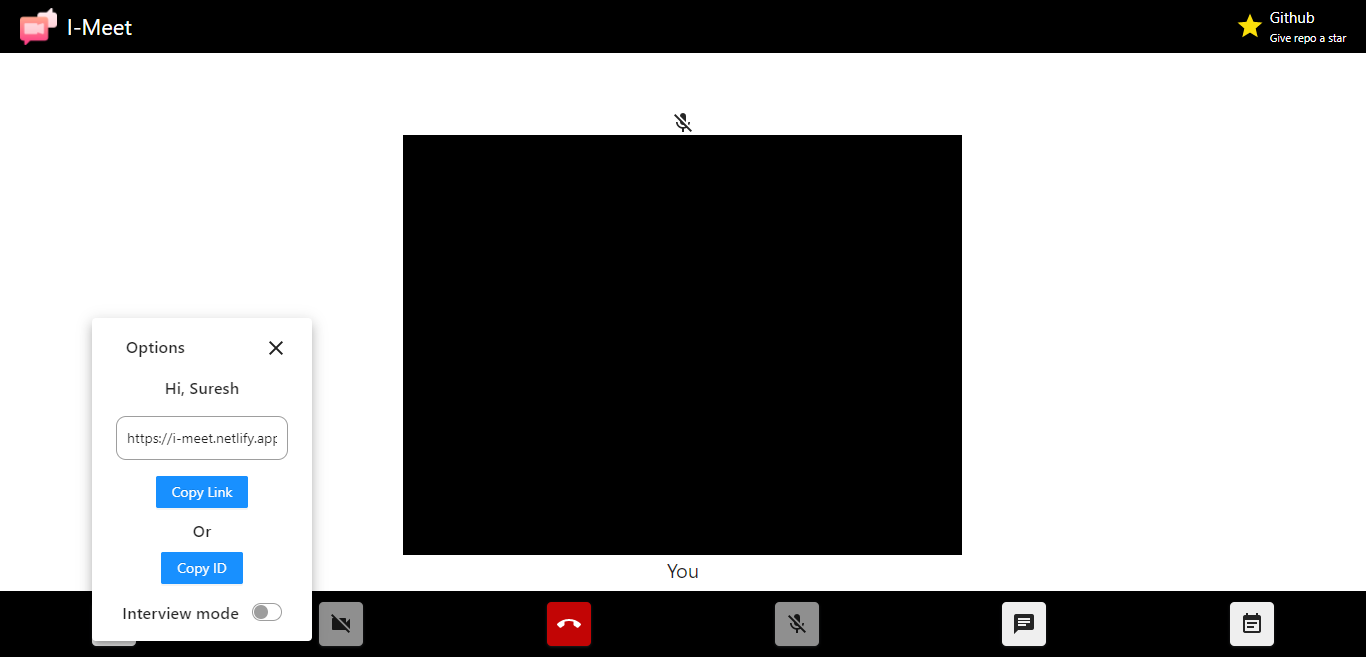
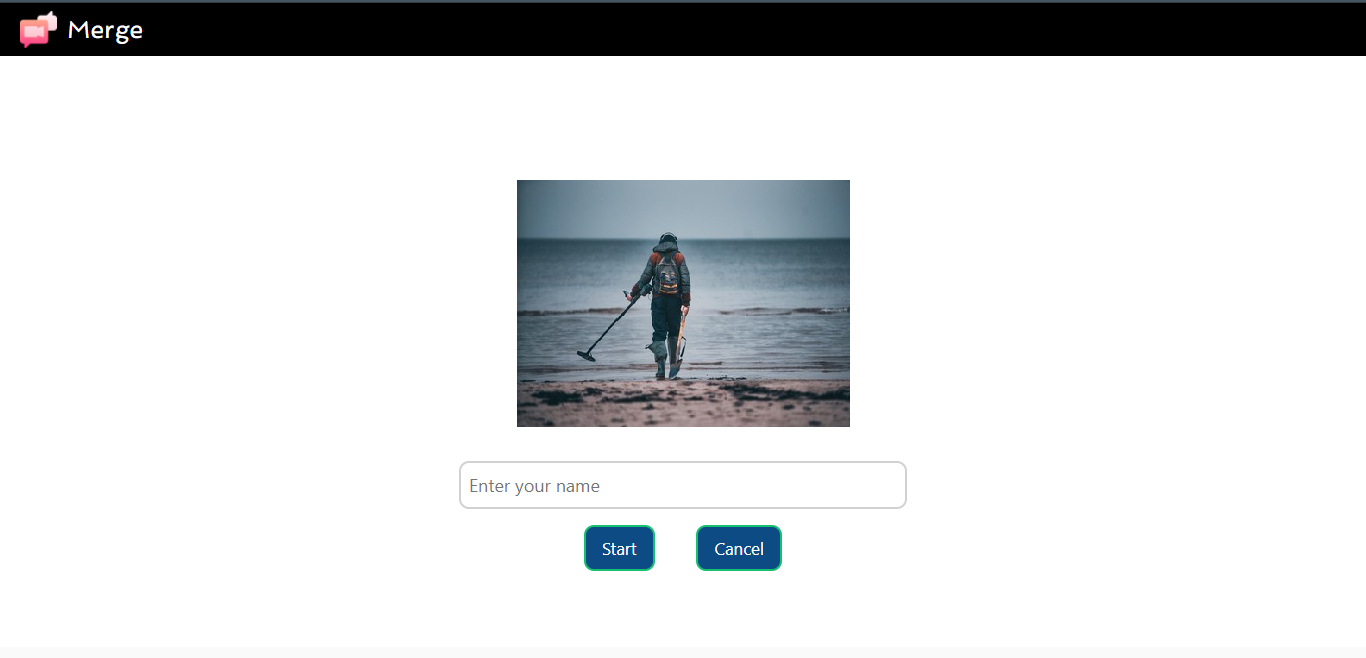
changed app name and added screenshots

diff --git a/client/src/Components/Navbar/Navbar.scss b/client/src/Components/Navbar/Navbar.scss
@@ -1,3 +1,6 @@
+@import url('https://fonts.googleapis.com/css2?family=Jua&display=swap');
+@import url('https://fonts.googleapis.com/css2?family=Jua&family=Skranji:wght@700&display=swap');
+@import url('https://fonts.googleapis.com/css2?family=Spinnaker&display=swap');
 .navbar {
   // box-shadow: rgba(0, 0, 0, 0.16) 0px 3px 6px, rgba(0, 0, 0, 0.23) 0px 3px 6px;
   background-color: black;
@@ -17,7 +20,10 @@
       height: 70%;
     }
     h3 {
-      font-size: 22px;
+      // font-family: 'Jua', sans-serif;
+      // font-family: 'Skranji', cursive;
+      font-family: 'Spinnaker', sans-serif;
+      font-size: 25px;
       font-weight: 400;
       // margin-left: 10px;
       margin: auto 0;

diff --git a/client/src/Components/Home/Home.js b/client/src/Components/Home/Home.js
@@ -17,15 +17,12 @@ import Navbar from '../Navbar/Navbar';
 const Home = (props) => {
   const paramsCode = props.location.search;
 
-  const {
-    meetingCode,
-    setMeetingCode,
-    setNewMeet,
-  } = useContext(SocketContext);
-
+  const { meetingCode, setMeetingCode, setNewMeet } = useContext(SocketContext);
 
   useEffect(() => {
     if (paramsCode.length) {
+      console.log(paramsCode.substring(0, 5) )
+      if (paramsCode.substring(0, 5) == '?ref=') return; // for product hunt ref
       setMeetingCode(paramsCode.substring(1));
     }
   }, []);

diff --git a/client/src/Components/Navbar/Navbar.css b/client/src/Components/Navbar/Navbar.css
@@ -1,3 +1,6 @@
+@import url("https://fonts.googleapis.com/css2?family=Jua&display=swap");
+@import url("https://fonts.googleapis.com/css2?family=Jua&family=Skranji:wght@700&display=swap");
+@import url("https://fonts.googleapis.com/css2?family=Spinnaker&display=swap");
 .navbar {
   background-color: black;
   display: flex;
@@ -19,7 +22,8 @@
 }
 
 .navbar .title-div h3 {
-  font-size: 22px;
+  font-family: 'Spinnaker', sans-serif;
+  font-size: 25px;
   font-weight: 400;
   margin: auto 0;
   color: white;

diff --git a/client/src/Components/Navbar/Navbar.js b/client/src/Components/Navbar/Navbar.js
@@ -11,13 +11,13 @@ const Navbar = () => {
         <img src={homeIcon} alt='' />
         <h3>{APP_NAME}</h3>
       </div>
-      <a className='repo' href={repoName} target='_blank'>
+      {/* <a className='repo' href={repoName} target='_blank'>
         <StarIcon className='rotate' />
         <div className='repo-text'>
           <p className='github-name'>Github</p>
           <p className='repo-name'>Give repo a star</p>
         </div>
-      </a>
+      </a> */}
     </div>
   );
 };

diff --git a/client/public/index.html b/client/public/index.html
@@ -26,7 +26,7 @@
       work correctly both with client-side routing and a non-root public URL.
       Learn how to configure a non-root public URL by running `npm run build`.
     -->
-    <title>I-Meet</title>
+    <title>Merge - Video chat for Interviews</title>
   </head>
   <body>
     <noscript>You need to enable JavaScript to run this app.</noscript>

diff --git a/client/src/constants.js b/client/src/constants.js
@@ -1,3 +1,3 @@
-export const APP_NAME = 'I-Meet';
+export const APP_NAME = 'Merge';
 export const repoName = 'https://github.com/suresh213/video-chat';
-export const APP_URL = 'https://i-meet.netlify.app';
+export const APP_URL = 'https://merge.netlify.app';
